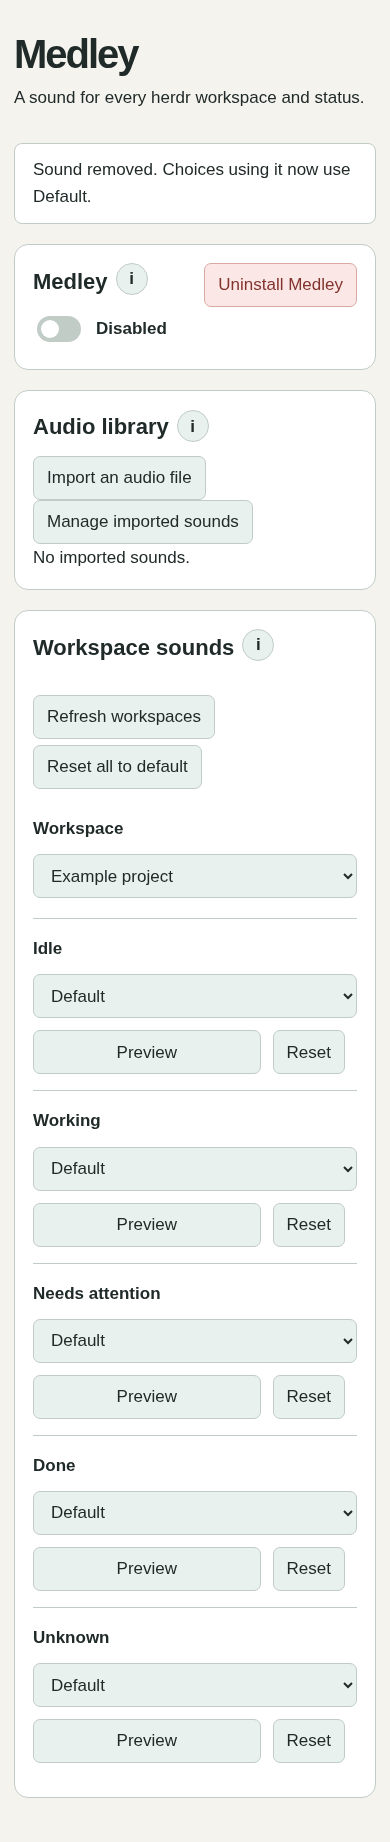
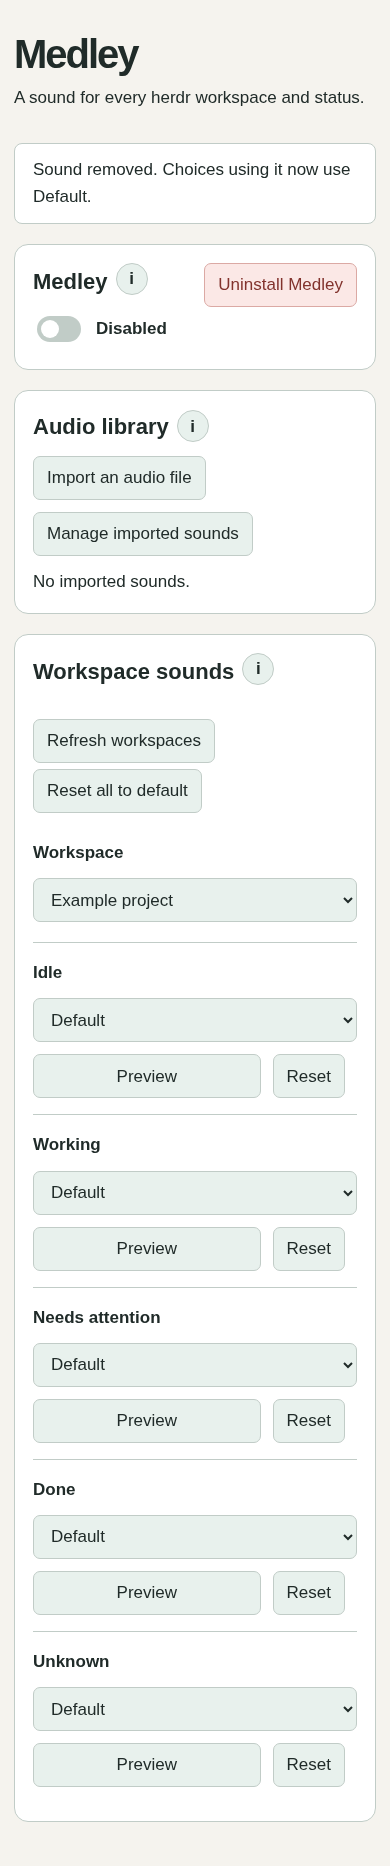
Explain stale settings server errors and space library actions

diff --git a/assets/index.html b/assets/index.html
@@ -3,7 +3,7 @@
 <body><main><header><h1>Medley</h1><p>A sound for every herdr workspace and status.</p></header>
 <p id="feedback" role="status" aria-live="polite" hidden></p><p id="error" role="alert" hidden></p><audio id="player" controls hidden aria-label="Sound preview"></audio>
 <section aria-labelledby="playback-heading"><div class="section-heading"><div class="library-heading"><h2 id="playback-heading">Medley</h2><button class="info-button" type="button" popovertarget="medley-help" aria-label="About Medley">i</button></div><button id="uninstall">Uninstall Medley</button></div><label class="toggle"><input type="checkbox" role="switch" aria-label="Medley enabled" id="enabled"> <span id="enabled-label">Disabled</span></label><div id="medley-help" class="help-popover" popover><p>Medley handles notification sounds while enabled. Disabling or using Uninstall Medley here restores herdr’s previous sound setting. Audio plays on the herdr server’s machine, including for the workspace you are viewing.</p><p>Local settings · No account or cloud service required</p></div></section>
-<section aria-labelledby="library-heading"><div class="library-heading"><h2 id="library-heading">Audio library</h2><button class="info-button" type="button" popovertarget="library-help" aria-label="About audio imports">i</button></div><div id="library-help" class="help-popover" popover>Choose an MP3 or WAV to import it immediately, then select it in any workspace. WAV files convert to MP3. Maximum 20 MB.</div><button id="choose-audio" type="button">Import an audio file</button><input type="file" accept=".mp3,.wav,audio/mpeg,audio/wav" id="upload" aria-label="Import an audio file" hidden><button id="manage-library" aria-expanded="false" aria-controls="library-files">Manage imported sounds</button><div id="library-files" hidden></div></section>
+<section aria-labelledby="library-heading"><div class="library-heading"><h2 id="library-heading">Audio library</h2><button class="info-button" type="button" popovertarget="library-help" aria-label="About audio imports">i</button></div><div id="library-help" class="help-popover" popover>Choose an MP3 or WAV to import it immediately, then select it in any workspace. WAV files convert to MP3. Maximum 20 MB.</div><div class="library-actions"><button id="choose-audio" type="button">Import an audio file</button><input type="file" accept=".mp3,.wav,audio/mpeg,audio/wav" id="upload" aria-label="Import an audio file" hidden><button id="manage-library" aria-expanded="false" aria-controls="library-files">Manage imported sounds</button></div><div id="library-files" hidden></div></section>
 <section aria-labelledby="rules-heading"><div class="section-heading"><div class="library-heading"><h2 id="rules-heading">Workspace sounds</h2><button class="info-button" type="button" popovertarget="workspace-help" aria-label="About workspace sounds">i</button></div><div><button id="refresh">Refresh workspaces</button> <button id="reset">Reset all to default</button> <button id="undo" hidden>Undo reset</button></div></div><div id="workspace-help" class="help-popover" popover>Choose a workspace and a status. Changes save immediately. Default follows herdr’s configured completion or attention sound; Working and Unknown are quiet by default.</div>
 <div class="workspace-row"><label for="workspace">Workspace</label><select id="workspace"></select></div><div id="rules"></div></section>
 </main></body></html>

diff --git a/assets/app.js b/assets/app.js
@@ -7,6 +7,7 @@ let model, savedRules;
 async function request(path, data) {
   const response = await fetch(path, {method: data === undefined ? 'GET' : 'POST', headers: {'X-Medley-Token': token, 'Content-Type': 'application/json'}, body: data === undefined ? undefined : JSON.stringify(data)});
   const result = await response.json();
+  if (response.status === 404) throw new Error('This settings tab uses an older Medley server. Reopen Medley with herdr plugin action invoke medley.settings and use the new tab.');
   if (!response.ok) throw new Error(result.error || 'The request failed. Try again.');
   return result;
 }

diff --git a/assets/style.css b/assets/style.css
@@ -11,3 +11,5 @@
 @media(min-width:641px){section[aria-labelledby=rules-heading]{display:grid;grid-template-columns:150px minmax(160px,1fr) auto auto;column-gap:12px}section[aria-labelledby=rules-heading]>.section-heading{grid-column:1/-1}#rules{display:contents}.rule,.workspace-row{grid-column:1/-1;grid-template-columns:subgrid}.workspace-row select{grid-column:2}}
 .workspace-row{padding-top:20px}
 input[type=file]{font-size:0;width:132px}input::file-selector-button{font:1.0625rem/1.6 system-ui,sans-serif;margin-right:0}
+
+.library-actions{display:flex;align-items:center;flex-wrap:wrap;gap:12px;margin:12px 0}

diff --git a/docs/validation.md b/docs/validation.md
@@ -274,3 +274,14 @@ Removed Import audio heading. A native “Import an audio file” button opens t
 hidden native picker; selecting imports immediately. Browser validation opens the
 actual file chooser via this button, selects synthetic audio and verifies import.
 Full Chromium checks passed; captures refreshed. Keyboard semantics retained.
+
+## Older settings server and library button spacing — 2026-10-20
+
+Old settings processes can serve updated static files while retaining their old
+Python request handlers; processes predating Remove were still running locally.
+A 404 now explains how to reopen settings instead of showing “Not found”. Browser
+validation simulates that response, confirms choices remain intact, then retries
+against the current handler and verifies removal/default reset. All 15 Python tests
+and Chromium checks passed. Library actions use a wrapping flex row with 12 px gap;
+refreshed desktop capture visually inspected and mobile overflow check passed.
+No real sound was deleted for verification. Fresh settings server opened afterward.
